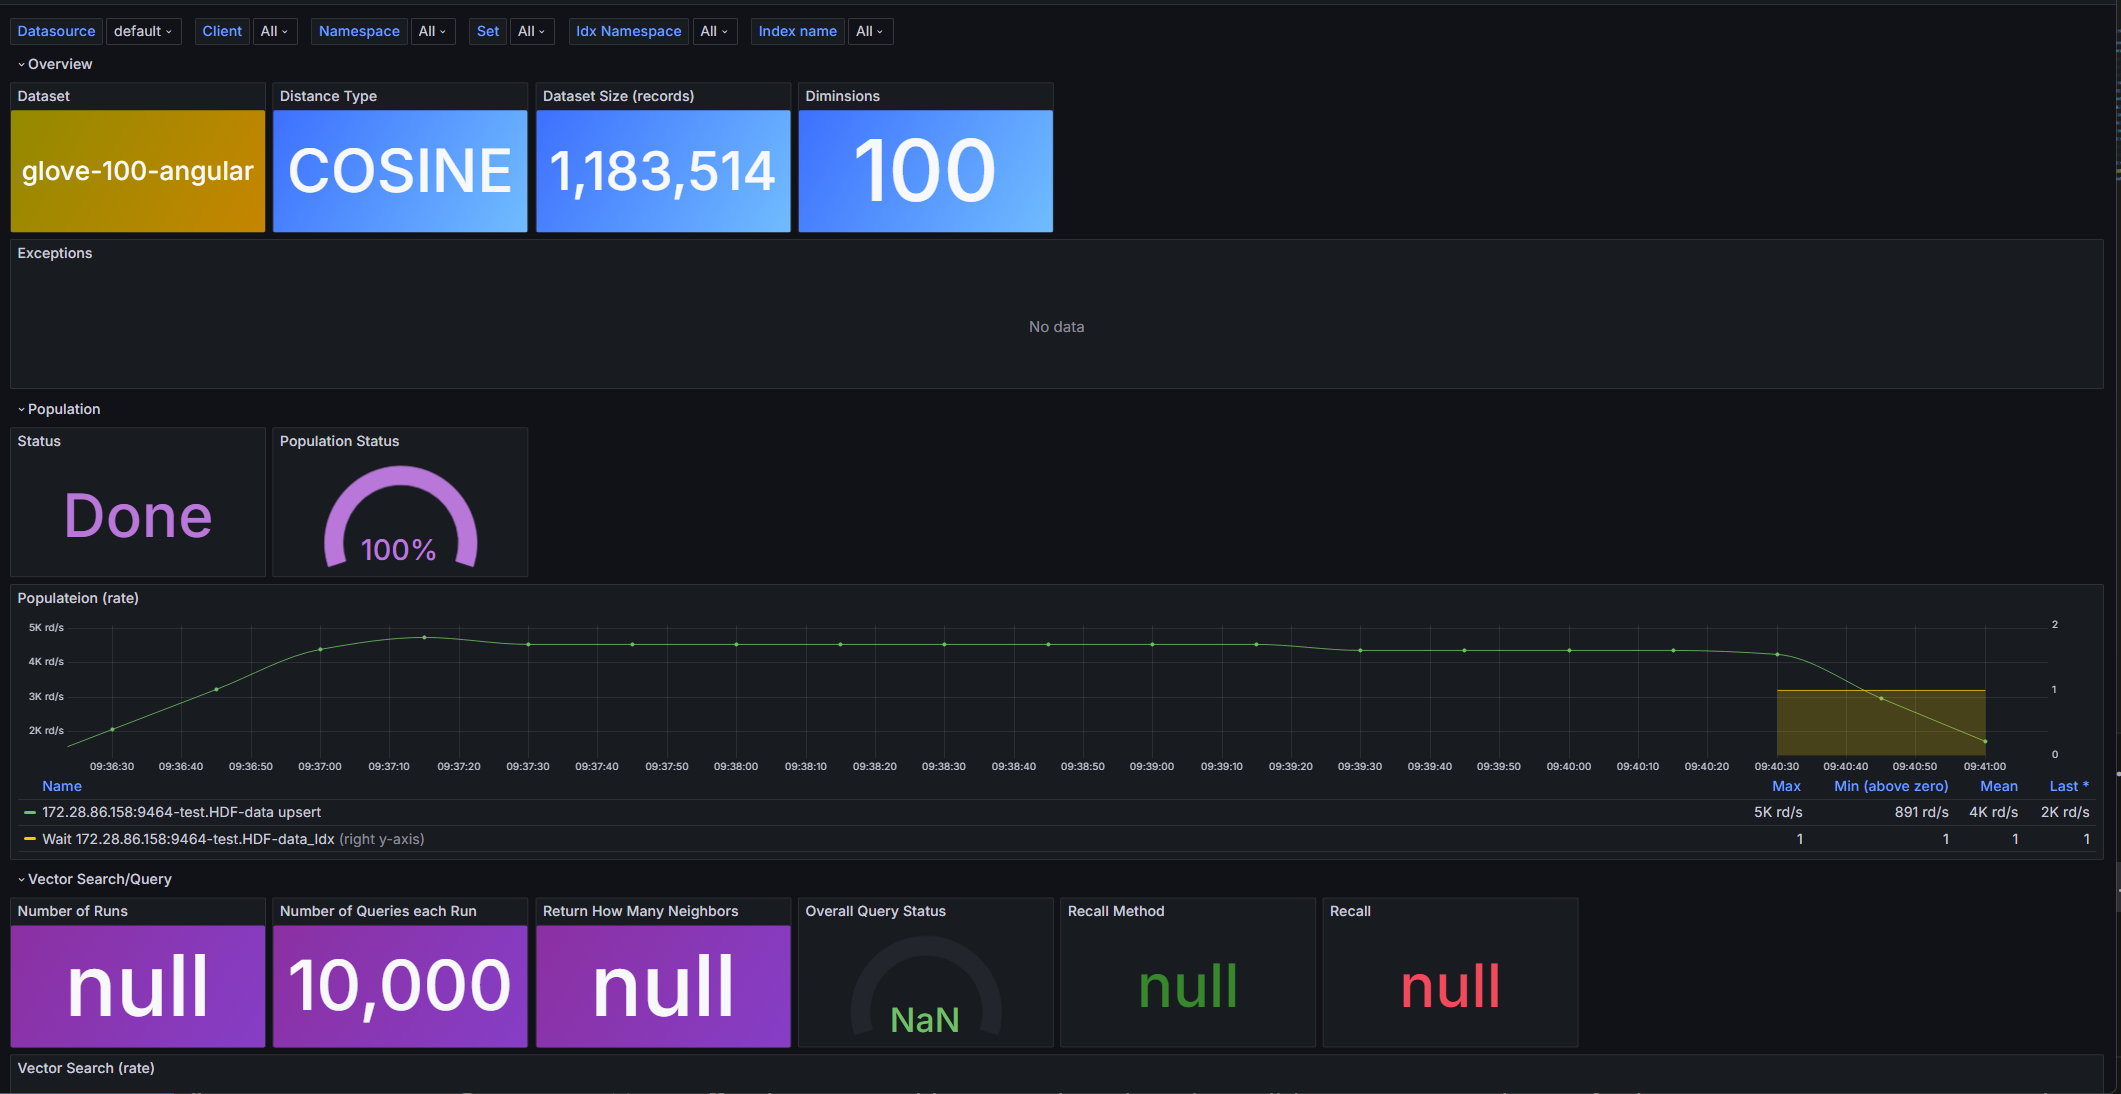
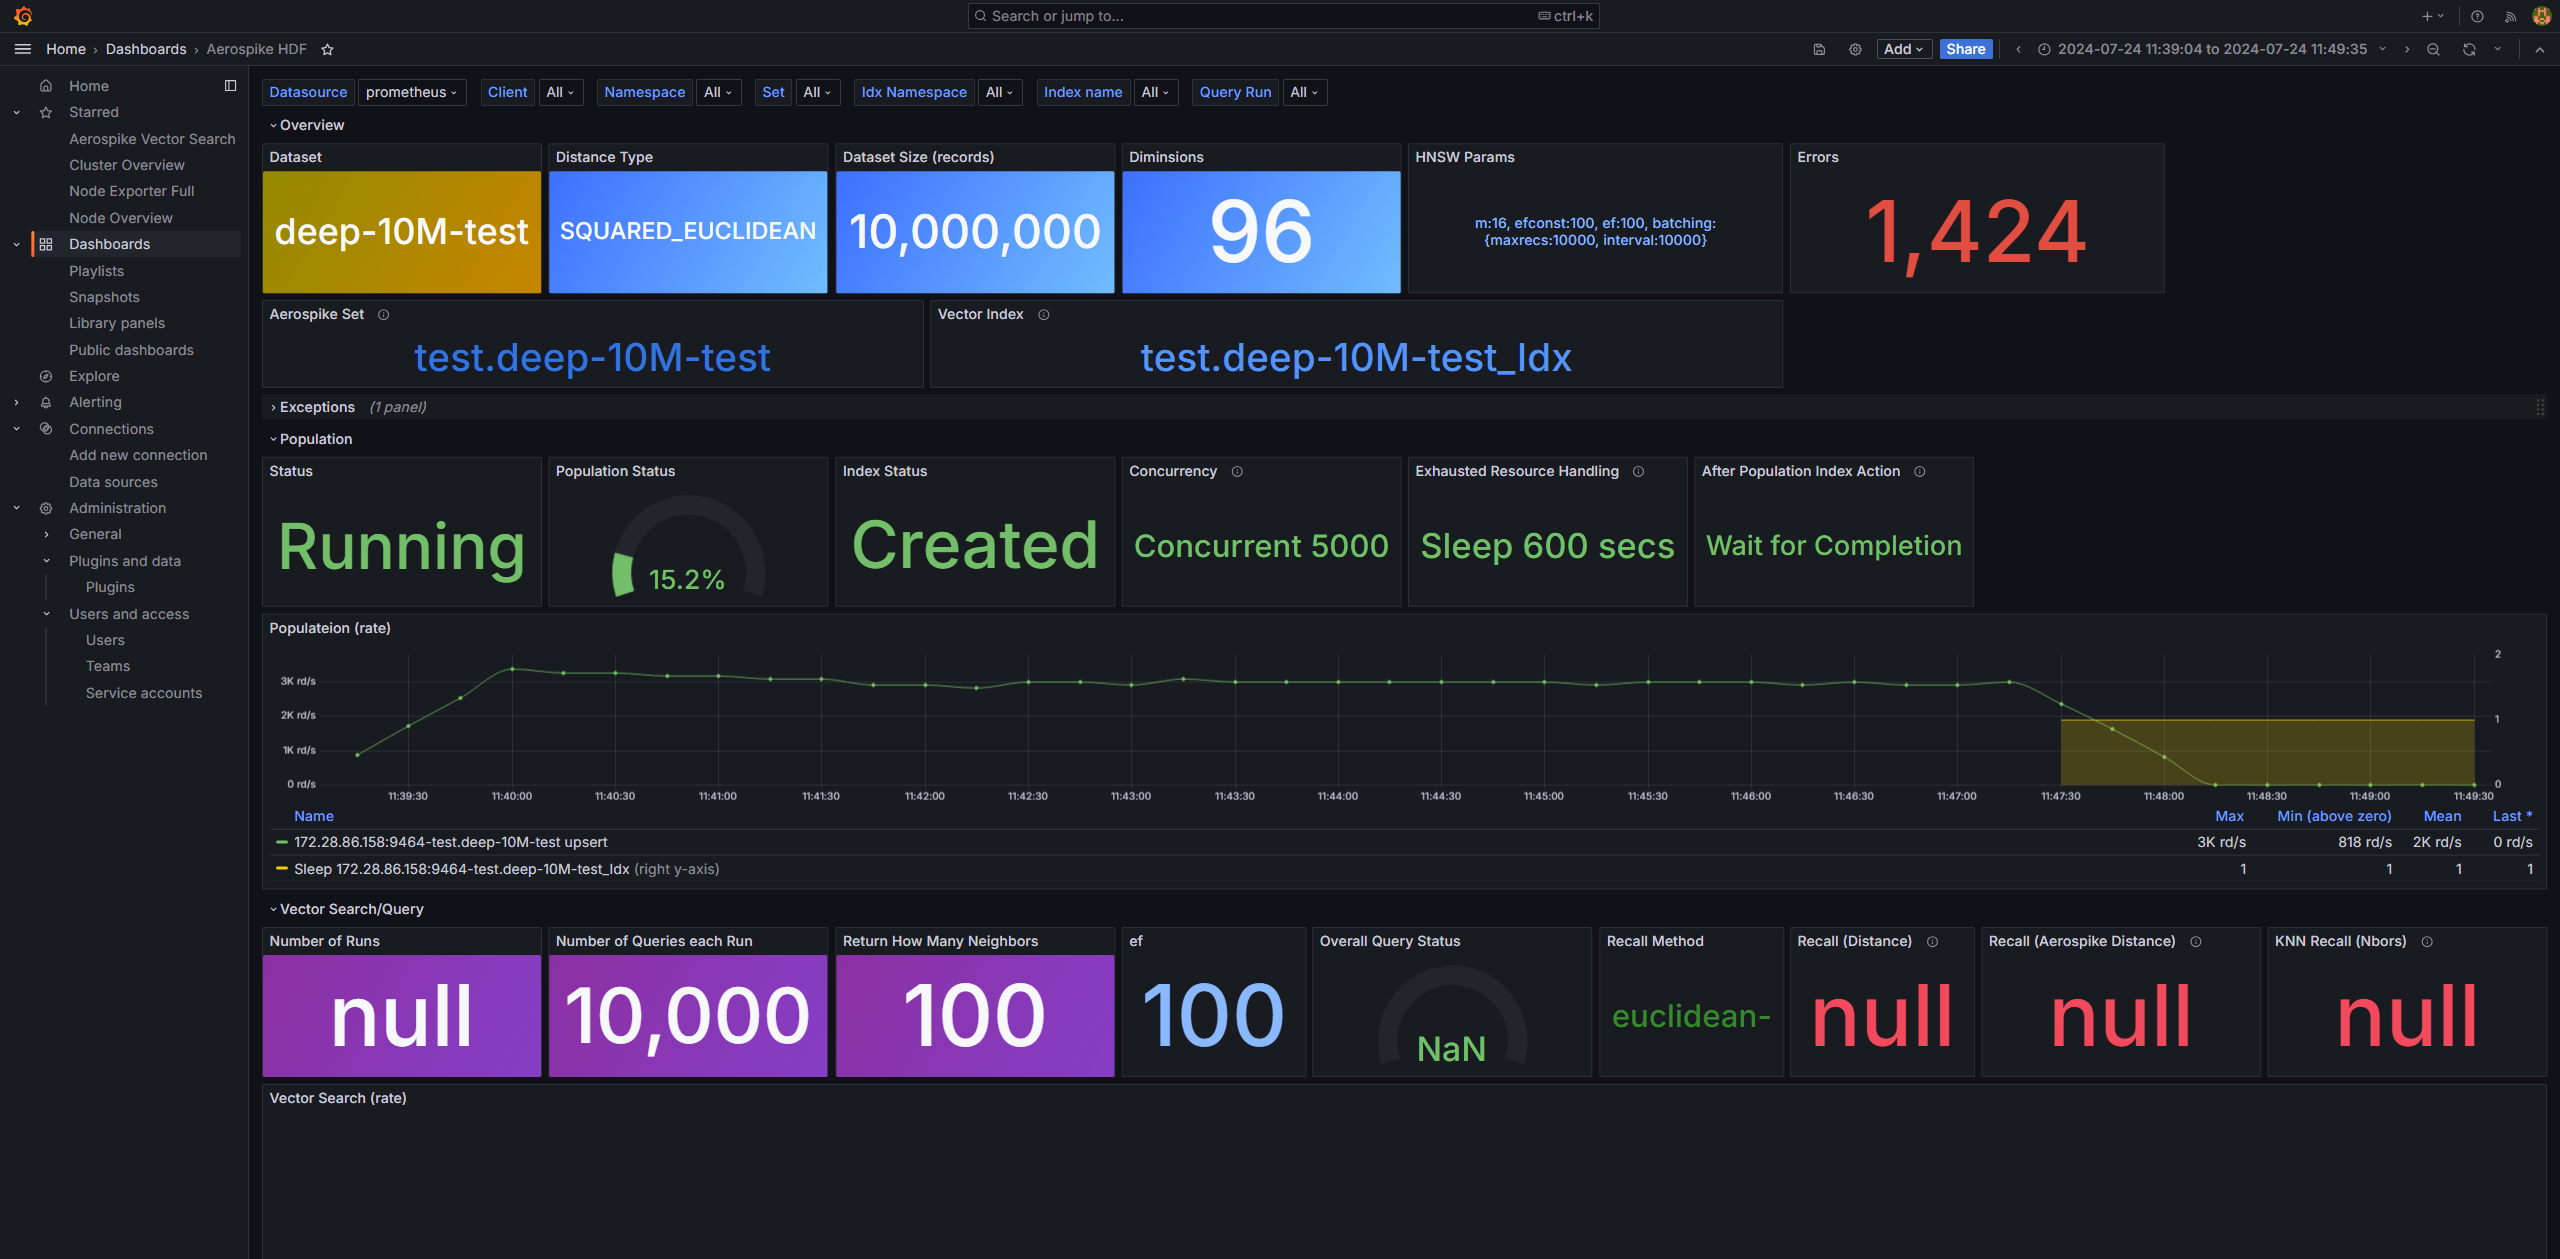
Updated readme with Big ANN conversion programs

diff --git a/README.md b/README.md
@@ -348,12 +348,11 @@ The Vector's Search Params (HnswParams) as a Json value used to obtain the neigh
 
 The Bin Name that represents the Primary Key for a record. If not provided the Aerospike PK will try to be used, if the PK value is returned.
 
-If the Aerospike PK is not a value (digest), PK array will not be part of the HDF dataset. (default: \_proximus_uk_)
+If the Aerospike PK is not a value (digest), PK array will not be part of the HDF dataset. (default: \_avs_uk_)
 
 \--records LIMIT
 
-The number of records (PKs) returned from the application Aerospike Set. If -1, all records are returned from the set. 
-(default: -1)
+The number of records (PKs) returned from the application Aerospike Set. If -1, all records are returned from the set. (default: -1)
 
 \-n NEIGHBORS, --neighbors NEIGHBORS
 
@@ -430,6 +429,82 @@ The Logging level
 -   vector_distance -- The Aerospike distance type (VectorDistanceMetric)
 -   hnsw -- The hnsw parameters defined when the index was created
 
+# Big ANN Datasets
+
+You can create a HDF5 file that can be used by the ANN framework or “Standalone ANN”, The Big ANN datasets are in a different format than the “standard” ANN HDF5 file.
+
+To convert from a Big ANN format to an ANN HDF5 file you must perform these two steps:
+
+1.  Call the bigann_download.py program to download the Big ANN files
+2.  Call bigann_convert_hdf.py that will convert from the Big ANN files to the HDF5 file
+
+## bigann_download
+
+This will download the Big ANN dataset files and place the files into the default “data” folder where the dataset name will be a sub-folder within this folder. **This requires the following applications installed in your environment:**
+
+-   **axel**
+-   **azcopy**
+
+Below are the arguments:
+
+-   \--dataset name  
+    You can find more information about the Big ANN datasets [here](https://big-ann-benchmarks.com/neurips23.html). Name is:
+    -   'bigann-1B'
+    -   'bigann-100M'
+    -   'bigann-10M'
+    -   'deep-1B'
+    -   'deep-100M'
+    -   'deep-10M'
+    -   'ssnpp-1B'
+    -   'ssnpp-10M'
+    -   'ssnpp-100M'
+    -   'ssnpp-1M'
+    -   'text2image-1B'
+    -   'text2image-1M'
+    -   'text2image-10M'
+    -   'text2image-100M'
+    -   'msturing-1B'
+    -   'msturing-100M'
+    -   'msturing-10M'
+    -   'msturing-1M'
+    -   'msturing-10M-clustered'
+    -   'msturing-30M-clustered'
+    -   'msspacev-1B' 'msspacev-100M'
+    -   'msspacev-10M' 'msspacev-1M'
+    -   'yfcc-10M' 'yfcc-10M-unfiltered'
+    -   'yfcc-10M-dummy'
+    -   'yfcc-10M-dummy-unfiltered'
+    -   'sparse-small'
+    -   'sparse-1M'
+    -   'sparse-full'
+    -   'random-xs'
+    -   'random-s'
+    -   'random-xs-clustered'
+    -   'random-range-xs'
+    -   'random-range-s'
+    -   'random-filter-s'
+    -   'openai-embedding-1M'
+
+## bigann_convert_hdf
+
+This will convert a previously downloaded Big ANN dataset into the standard ANN HDF5 file.
+
+The arguments are:
+
+-   \--dataset name – The Big ANN dataset name as defined and download from [bigann_download](#bigann_download).
+-   \--hdf HDFFILE – The name of the HDF5 file that will be created in the “data” folder. This file will have the following attributes:
+    -   dimension – The dimensions of the training vector as defined by the Big ANN dataset
+    -   distance – The distance type
+    -   nbrneighbors -- The number of neighbors returned
+    -   point_type – The point type
+    -   searchtype – The distance search type
+    -   sourcedataset – The Big ANN dataset name
+    -   type – Always "dense"
+    -   distances – A collection of vectors and shape of the test results distances as defined in the Big ANN dataset
+    -   neighbors -- A collection of vectors and shape of the test results neighbors as defined in the Big ANN dataset
+    -   test -- A vector and shape of the test vectors used to obtain the results as defined in the Big ANN dataset
+    -   train -- A vector and shape of the training vectors used to by training to query the DB
+
 # Prometheus
 
 The module outputs certain meters to Prometheus. They are:
@@ -455,12 +530,28 @@ The module outputs certain meters to Prometheus. They are:
         -   `Paused – paused due to resource exhausted`
         -   `Running - Populating`
         -   `Idle – before population, after, or after waiting…`
+        -   Collecting HDF – Obtaining information from the HDF file
+        -   AVS Status – Connecting to the AVS server and obtaining index information
+        -   Query – Performing a Query action
         -   `Done – Population/Wait done`
     -   `"action” – If importing (populating) or querying`
     -   "remainingRecs" – The current number of records that have not been populated
     -   "remainingquerynbrs” - The total number of queries (includes all runs) that have not been executed
     -   "hnswparams" -- The Vector Index's HNSW params
-    -   "queryef" -- The query's "ef" value 
+    -   "queryef" -- The query's "ef" value
+    -   “popresrcevt" – during population, the resource exhausted event handling. Values are:
+        -   Wait Idx – Wait for Index to Complete before proceeding
+        -   Sleep N – Sleep N seconds until proceeding
+        -   Exception – Rethrow the resource exhausted exception
+    -   "popconcurrent” – during population the concurrency action of the upserts. Values are:
+        -   All – All records are upserted, concurrently
+        -   Concurrent N – Records are upseted N records concurrently, at a time. Once the records are submitted, the application waits for server to respond before the next N records are submitted.
+        -   Single – One record is submitted and waits for the sever upsert response
+        -   Disabled – Population is disabled
+    -   "popwait" – The action taken once all records are upserted into the DB. Values are:
+        -   Wait for Completion – Wait for the server to acknowledge that all upsets are committed to the database.
+        -   No Wait – The application doesn’t wait for acknowledgement and eventually the upserts will be committed.
+    -   "idxstate" – Provides if the index already existed, newly created, or dropped and re-created.
 -   `aerospike.hdf.populate Current record rate that have been upserted. Defined as a counter. Attributes:`
     -   `"type" -- upsert`
     -   `"ns" -- Namespace`